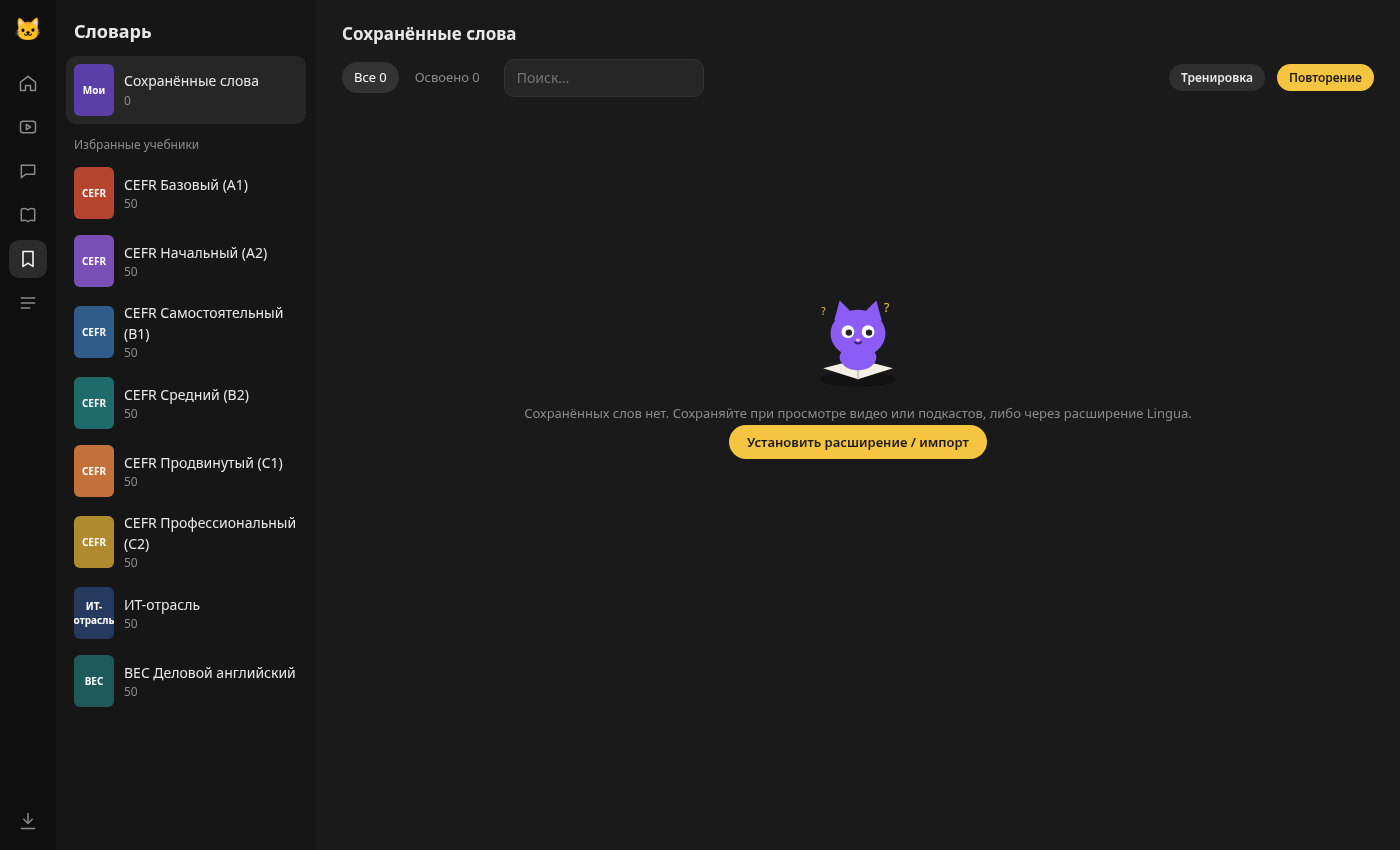
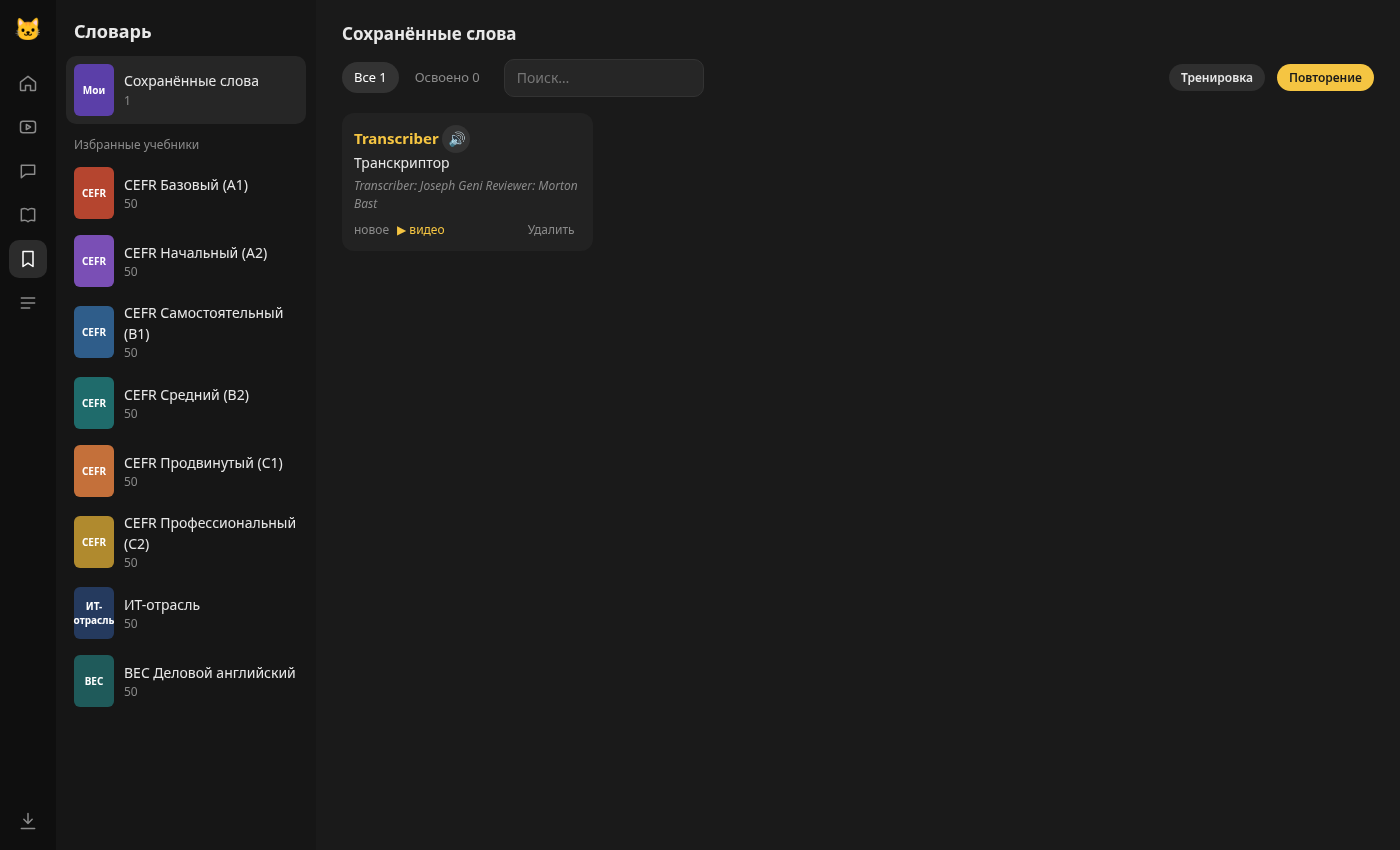
QA scripts, screenshots, README

diff --git a/tests/qa.js b/tests/qa.js
@@ -1,0 +1,31 @@
+const { chromium } = require('playwright-core');
+const BASE = process.env.BASE || 'https://danyadanileckiy.github.io/lingua-learn/';
+const SH = n => `/workspace/lingua/shots/qa-${n}.png`;
+const res = []; const ok = (name, pass, info = '') => { res.push([name, pass ? 'PASS' : 'FAIL', info]); console.log(pass ? 'PASS' : 'FAIL', name, info); };
+(async () => {
+  const b = await chromium.launch({ executablePath: process.env.HOME + '/.cache/ms-playwright/chromium-1248/chrome-linux64/chrome', args: ['--no-sandbox', '--autoplay-policy=no-user-gesture-required'] });
+  const ctx = await b.newContext({ viewport: { width: 1440, height: 900 } });
+  const p = await ctx.newPage(); const errs = [];
+  p.on('pageerror', e => errs.push('pageerror: ' + e.message));
+  p.on('console', m => { if (m.type() === 'error' && !/youtube|ytimg|doubleclick|googlevideo|Failed to load resource|CORS|ERR_|net::|Access-Control|status of 4|status of 5/i.test(m.text())) errs.push('console: ' + m.text()); });
+  p.on('dialog', d => d.accept());
+  const go = async (h, w = 800) => { await p.evaluate(h => location.hash = h, h); await p.waitForTimeout(w); };
+  const T = async (name, fn) => { try { await fn(); } catch (e) { ok(name, false, 'exception: ' + e.message.split('\n')[0]); } };
+  await p.goto(BASE + '#/home', { waitUntil: 'networkidle' }); await p.evaluate(() => localStorage.clear()); await p.reload({ waitUntil: 'networkidle' });
+
+  await T('home', async () => { const n1 = await p.locator('.v').count(); await p.click('#hmore2'); await p.waitForTimeout(400); const n2 = await p.locator('.v').count(); await p.screenshot({ path: SH('home') }); ok('home grid + Показать больше', n1 >= 10 && n2 > n1, `${n1}→${n2}`); });
+  await T('library', async () => { await go('#/library', 1500); ok('library grid', await p.locator('.v').count() >= 20); await p.fill('#chin', 'https://www.youtube.com/@TED'); await p.click('#chadd'); await p.waitForSelector('#chv .v', { timeout: 40000 }); const n = await p.locator('#chv .v').count(); await p.screenshot({ path: SH('library-channel') }); ok('library add channel (@TED)', n > 0, n + ' videos'); });
+  await T('podcasts', async () => { await go('#/library/podcasts', 800); await p.click('.ppre >> nth=0'); await p.waitForSelector('#lp .pod', { timeout: 30000 }); await p.click('#lp .pod'); await p.waitForSelector('.ep'); const n = await p.locator('.ep').count(); await p.click('.ep >> nth=0'); await p.waitForTimeout(800); const src = await p.$eval('#au', a => a.src); await p.screenshot({ path: SH('podcast') }); ok('podcast RSS (BBC 6 Minute English)', n > 0 && /^https?:/.test(src), n + ' episodes'); });
+  await T('watch curated', async () => { await go('#/watch/H14bBuluwB8', 500); await p.waitForSelector('.ln', { timeout: 20000 }); await p.waitForFunction(() => [...document.querySelectorAll('.ln .t2')].filter(x => x.textContent).length > 10, null, { timeout: 40000 }); const n = await p.locator('.ln').count(); ok('watch curated transcript + translation', n > 50, n + ' lines'); await p.click('.ln >> nth=2 >> .w >> nth=2'); await p.waitForFunction(() => document.querySelector('#ptr') && document.querySelector('#ptr').textContent !== '…', null, { timeout: 15000 }); const tr = await p.textContent('#ptr'); await p.screenshot({ path: SH('watch-popup') }); await p.click('#psw'); await p.click('.ln >> nth=3 >> .w >> nth=0'); await p.waitForTimeout(2500); await p.click('#pss'); const w = await p.evaluate(() => JSON.parse(localStorage.lingua_words || '[]').length), s = await p.evaluate(() => JSON.parse(localStorage.lingua_sentences || '[]').length); ok('word popup: translate + save word/sentence', tr && tr !== '(перевод недоступен)' && w === 1 && s === 1, `tr="${tr}" words=${w} sents=${s}`); });
+  for (const id of ['dQw4w9WgXcQ', 'kJQP7kiw5Fk', '9bZkp7q19f0']) await T('watch ' + id, async () => { await go('#/watch/' + id, 500); await p.waitForFunction(() => document.querySelector('.ln') || /Не удалось/.test(document.querySelector('#tr')?.innerText || ''), null, { timeout: 120000 }); const n = await p.locator('.ln').count(); await p.screenshot({ path: SH('watch-' + id) }); ok('watch arbitrary ' + id + ' (no extension)', n > 0, n ? n + ' lines' : 'graceful fallback message'); });
+  await T('vocab', async () => { await go('#/vocab', 600); const saved = await p.locator('.wc').count(); await go('#/vocab/b2', 600); const n = await p.locator('.wc').count(); await p.fill('#vq', 'crucial'); const vis = await p.$$eval('.wc', a => a.filter(x => x.style.display !== 'none').length); await p.screenshot({ path: SH('vocab') }); ok('vocab saved + set B2 + search', saved === 1 && n === 50 && vis === 1, `saved=${saved} b2=${n} search=${vis}`); });
+  await T('flashcards', async () => { await go('#/vocab/b2/learn', 600); for (let i = 0; i < 3; i++) { await p.click('#fshow'); await p.click(`[data-g="${[5, 4, 0][i]}"]`); await p.waitForTimeout(200); } await p.screenshot({ path: SH('flashcards') }); const srs = await p.evaluate(() => JSON.parse(localStorage.lingua_srs || '{}')); const k = Object.keys(srs); await go('#/vocab/b2/review', 500); const rev = await p.textContent('#fcb'); ok('flashcards SM-2', k.length === 3 && srs[k[0]].interval === 1 && srs[k[0]].ef > 2.5, `cards=${k.length} ef=${srs[k[0]] && srs[k[0]].ef.toFixed(2)} review: ${rev.slice(0, 40)}`); });
+  await T('sentences', async () => { await go('#/sentences', 500); const n = await p.locator('.wc').count(); await go('#/sentences/dict', 600); const target = await p.evaluate(() => JSON.parse(localStorage.lingua_sentences)[0].text); await p.fill('#din', target); await p.click('#chk'); const r = await p.textContent('#res'); await p.screenshot({ path: SH('dictation') }); ok('sentences fav + dictation', n === 1 && /100%/.test(r), r.slice(-30)); await go('#/sentences/shadow', 500); await p.click('#rec'); await p.waitForTimeout(800); const t = await p.textContent('#toast'); await p.screenshot({ path: SH('shadowing') }); ok('shadowing graceful (no mic in headless)', /Микрофон|не поддерживается|Говорите/.test(t), 'toast: ' + t); });
+  await T('talk', async () => { await go('#/talk', 500); const n = await p.locator('.sc').count(); await p.click('.chip:has-text("Питание")'); const f = await p.locator('.sc').count(); await go('#/talk/0', 1500); for (let i = 0; i < 5; i++) { await p.waitForSelector('.sug', { timeout: 5000 }); await p.click('.sug >> nth=0'); await p.waitForTimeout(1200); } const msgs = await p.locator('.msg').count(); const done = await p.textContent('#sg'); await p.screenshot({ path: SH('talk-chat') }); ok('AI Talk grid/filter/chat', n === 62 && f > 0 && f < n && msgs === 10 && /завершён/.test(done), `cards=${n} filter=${f} msgs=${msgs}`); });
+  await T('books', async () => { await go('#/books', 500); await p.setInputFiles('#bf', '/tmp/qa/prince.txt'); await p.waitForSelector('.bk'); await p.setInputFiles('#bf', '/tmp/qa/alice.epub'); await p.waitForFunction(() => document.querySelectorAll('.bk').length === 2, null, { timeout: 30000 }); const titles = await p.$$eval('.bk > .small:not(.muted)', a => a.map(x => x.textContent)); await p.screenshot({ path: SH('books') }); await go('#/read/1', 1500); const paras = await p.locator('#rd p').count(); await p.click('#pn'); await p.waitForTimeout(300); await p.click('#rd p >> nth=3 >> .w >> nth=1'); await p.waitForFunction(() => document.querySelector('#ptr') && document.querySelector('#ptr').textContent !== '…', null, { timeout: 15000 }); await p.waitForTimeout(2500); await p.screenshot({ path: SH('reader') }); const sec = await p.evaluate(() => Object.values(JSON.parse(localStorage.lingua_reading || '{}'))[0] || 0); ok('books txt + epub + reader + timer', titles.length === 2 && /Alice/i.test(titles[1]) && paras > 5 && sec > 0, `${titles.join(' | ')} paras=${paras} read=${sec}s`); });
+  await T('import', async () => { await go('#/import', 500); await p.setInputFiles('#file', '/tmp/qa/words.json'); await p.waitForTimeout(500); const m = await p.textContent('#imsg'); await p.screenshot({ path: SH('import') }); ok('import JSON', /: 2/.test(m), m); });
+  await T('home widgets', async () => { await go('#/home', 1200); const t = await p.textContent('.rp'); await p.screenshot({ path: SH('home-widgets') }); ok('home widgets reflect data', /3\s*Словарь/.test(t.replace(/\s+/g, ' ')) || /Словарь/.test(t), t.replace(/\s+/g, ' ').slice(0, 120)); });
+  ok('no console/page errors', errs.length === 0, errs.slice(0, 5).join(' || '));
+  require('fs').writeFileSync('/tmp/pw/qa-result.json', JSON.stringify(res, null, 1));
+  await b.close();
+})();

diff --git a/tests/ext.js b/tests/ext.js
@@ -1,0 +1,40 @@
+const { chromium } = require('playwright-core');
+const EXT = '/workspace/lingua/extension';
+(async () => {
+  const ctx = await chromium.launchPersistentContext('/tmp/pw/prof-' + Date.now(), {
+    executablePath: process.env.HOME + '/.cache/ms-playwright/chromium-1248/chrome-linux64/chrome', headless: false,
+    args: ['--no-sandbox', `--disable-extensions-except=${EXT}`, `--load-extension=${EXT}`, '--autoplay-policy=no-user-gesture-required', '--mute-audio'], viewport: { width: 1400, height: 850 }
+  });
+  let sw = ctx.serviceWorkers()[0] || await ctx.waitForEvent('serviceworker', { timeout: 15000 });
+  const extId = sw.url().split('/')[2]; console.log('ext', extId);
+  const p = await ctx.newPage(); const errs = []; p.on('console', m => { if (m.type() === 'error' && /lingua/i.test(m.text())) errs.push(m.text()); });
+  await p.goto('https://www.youtube.com/watch?v=' + (process.argv[2] || 'H14bBuluwB8'), { waitUntil: 'domcontentloaded' });
+  // consent dialog
+  for (const t of ['Accept all', 'Reject all']) { const b = p.getByRole('button', { name: t }); if (await b.count()) { await b.first().click().catch(() => { }); break; } }
+  await p.waitForTimeout(6000);
+  await p.evaluate(() => { const v = document.querySelector('video'); if (v) { v.muted = true; v.play(); } });
+  let ok = false;
+  for (let i = 0; i < 30; i++) { await p.waitForTimeout(1000); const t = await p.evaluate(() => { const o = document.querySelector('#lingua-overlay'); return o && o.style.display !== 'none' ? o.innerText : ''; }); if (t && !t.endsWith('…')) { console.log('overlay:', JSON.stringify(t)); ok = true; break; } }
+  await p.screenshot({ path: '/workspace/lingua/shots/qa-ext-youtube.png' });
+  if (ok) {
+    await p.evaluate(() => document.querySelector('video').pause());
+    await p.click('#lingua-overlay .lg-w'); await p.waitForTimeout(2500);
+    console.log('pop:', JSON.stringify(await p.evaluate(() => document.querySelector('#lingua-pop')?.innerText)));
+    await p.click('#lingua-pop button'); await p.waitForTimeout(800);
+    await p.screenshot({ path: '/workspace/lingua/shots/qa-ext-wordpopup.png' });
+  }
+  const pp = await ctx.newPage(); await pp.goto(`chrome-extension://${extId}/popup.html`); await pp.waitForTimeout(800);
+  console.log('popup:', JSON.stringify(await pp.evaluate(() => document.body.innerText.slice(0, 200))));
+  await pp.screenshot({ path: '/workspace/lingua/shots/qa-ext-popup.png' });
+  const site = await ctx.newPage(); await site.goto('https://danyadanileckiy.github.io/lingua-learn/?cb=' + Date.now() + '#/vocab'); await site.waitForTimeout(3000);
+  console.log('site vocab:', (await site.evaluate(() => localStorage.getItem('lingua_words')) || 'null').slice(0, 200));
+  await site.screenshot({ path: '/workspace/lingua/shots/qa-ext-sync.png' });
+  for (const id of ['dQw4w9WgXcQ', 'kJQP7kiw5Fk', '9bZkp7q19f0']) {
+    await site.evaluate(id => location.hash = '#/watch/' + id, id);
+    try { await site.waitForFunction(() => document.querySelector('.ln') || /Не удалось/.test(document.querySelector('#tr')?.innerText || ''), null, { timeout: 90000 }); } catch (e) { }
+    await site.waitForTimeout(5000);
+    console.log('bridge', id, JSON.stringify(await site.evaluate(() => ({ n: document.querySelectorAll('.ln').length, tr: [...document.querySelectorAll('.ln .t2')].filter(x => x.textContent).length, title: document.querySelector('.top h1')?.innerText, first: document.querySelector('.ln')?.innerText }))));
+    await site.screenshot({ path: '/workspace/lingua/shots/qa-ext-bridge-' + id + '.png' });
+  }
+  console.log('errs', errs); await ctx.close();
+})();

diff --git a/README.md b/README.md
@@ -27,3 +27,9 @@
 
 ## Транскрипты
 Сайт ищет субтитры по цепочке: готовый файл `docs/transcripts/<id>.json` → расширение Lingua → innertube `/player` (ANDROID/IOS) напрямую и через CORS-прокси → `get_transcript` → `timedtext`. Для курируемых видео транскрипты генерируются `scripts/fetch_transcripts.py` (yt-dlp) и workflow `ci/transcripts.yml` (скопируйте в `.github/workflows/` для активации — для push нужен токен со scope `workflow`) (можно запустить вручную с дополнительными ID).
+
+## Тесты
+`tests/qa.js` — Playwright-проверка всех разделов живого сайта; `tests/ext.js` — E2E расширения (YouTube-субтитры, сохранение слова, popup, синхронизация, транскрипты произвольных видео). Нужен `playwright-core` и Chromium.
+
+## Произвольные видео
+Надёжный путь — расширение Lingua (v0.6+): сайт запрашивает транскрипт у расширения, оно получает субтитры через innertube без CORS. Без расширения сайт пробует Piped (работает только для видео, которые есть в кэше инстанса) и CORS-прокси (сейчас бесплатные прокси не работают).
